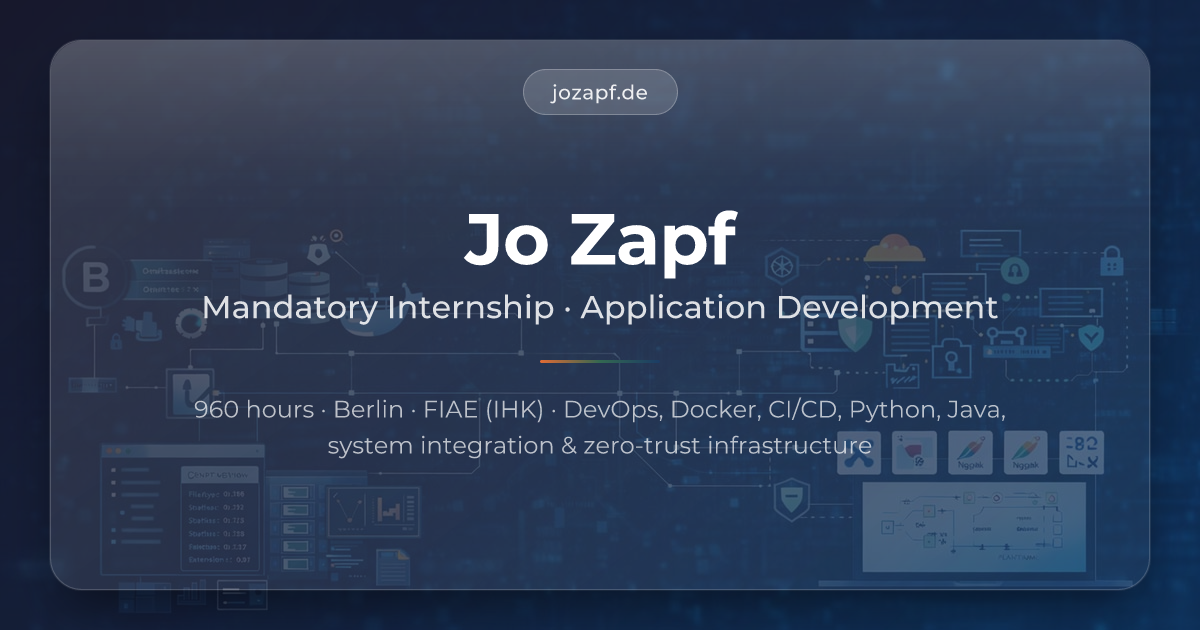
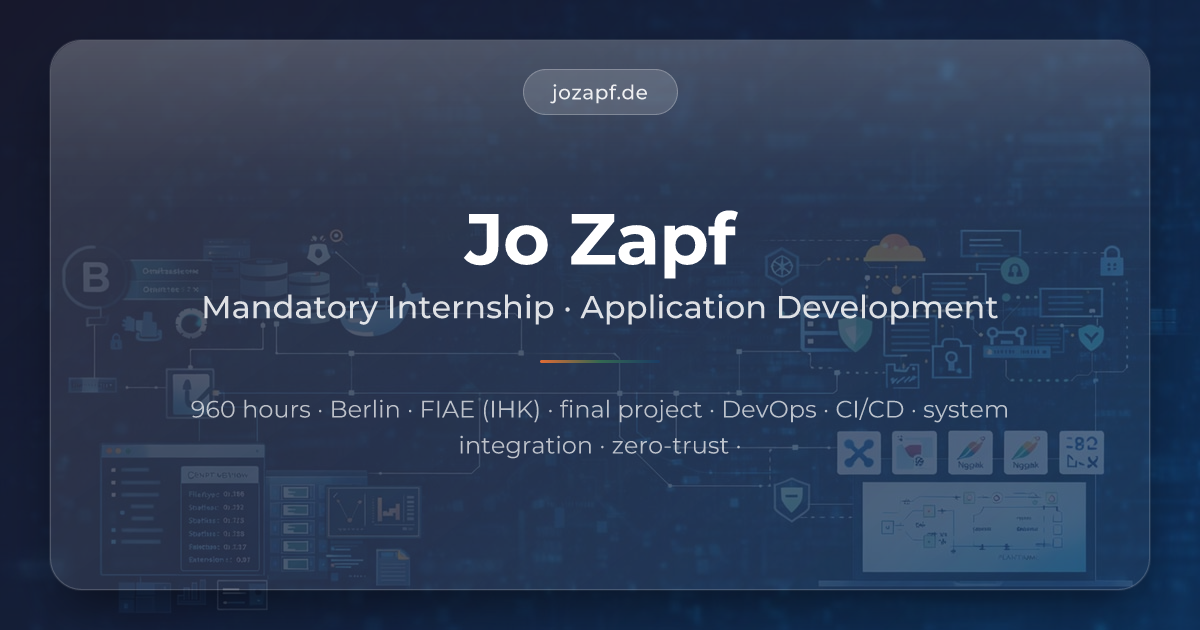
docs: updating og-images

Changed region(s): [[0.1542, 0.6333, 0.8325, 0.6635], [0.2775, 0.6937, 0.74, 0.7238]]

diff --git a/scripts/generate-og-images.ts b/scripts/generate-og-images.ts
@@ -61,14 +61,14 @@ const CONTENT = {
   'praktikum-de': {
     title: 'Jo Zapf',
     subtitle: 'Pflichtpraktikum Anwendungsentwicklung',
-    description: '960 Stunden · Berlin · FIAE (IHK) · DevOps, Docker, CI/CD, Python, Java, Systemintegration & Zero-Trust-Infrastruktur',
+    description: '· 960 Stunden · Berlin · FIAE (IHK) · Abschlussprojekt · DevOps · CI/CD · Systemintegration · Zero-Trust ·',
     badge: 'jozapf.de',
     filename: 'og-praktikum-de.png',
   },
   'praktikum-en': {
     title: 'Jo Zapf',
     subtitle: 'Mandatory Internship · Application Development',
-    description: '960 hours · Berlin · FIAE (IHK) · DevOps, Docker, CI/CD, Python, Java, system integration & zero-trust infrastructure',
+    description: '960 hours · Berlin · FIAE (IHK) · final project · DevOps · CI/CD · system integration · zero-trust ·',
     badge: 'jozapf.de',
     filename: 'og-praktikum-en.png',
   },

diff --git a/app/pflichtpraktikum-anwendungsentwicklung-berlin/page.tsx b/app/pflichtpraktikum-anwendungsentwicklung-berlin/page.tsx
@@ -20,8 +20,8 @@ export const metadata: Metadata = {
   title: "Pflichtpraktikum Anwendungsentwicklung Berlin 2026 – Jo Zapf | FIAE (IHK)",
   description:
     "Pflichtpraktikum Anwendungsentwicklung (FIAE/IHK) in Berlin ab Juni 2026. " +
-    "960 Stunden · DevOps, Docker, CI/CD, Python, Java, Systemintegration, " +
-    "Zero-Trust-Infrastruktur · Über 20 Jahre Cross-Media- und IT-Erfahrung.",
+    "960 Stunden · Berlin 2026 · IHK Abschlussprojekt, DevOps, Systemintegration, " +
+    "Anwendungsentwicklung · Über 20 Jahre Cross-Media- und IT-Erfahrung.",
   keywords: [
     // Primary
     "Pflichtpraktikum",
